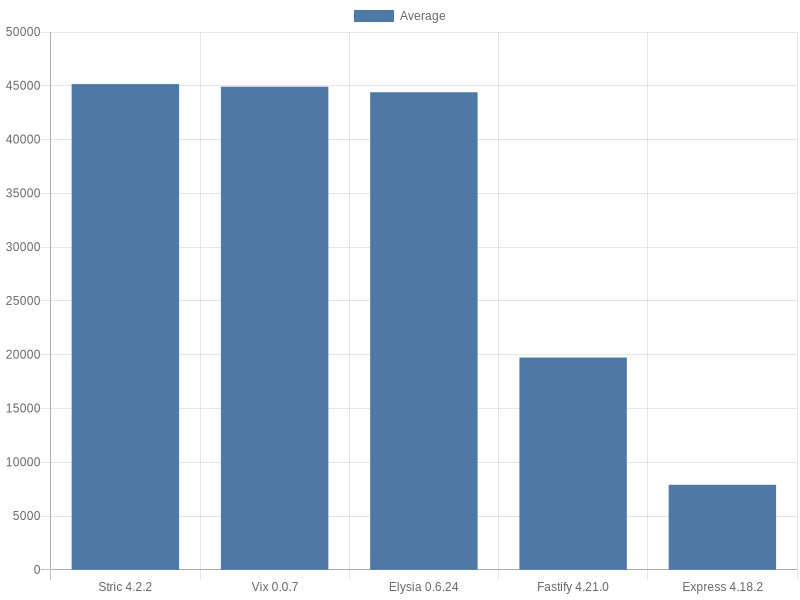
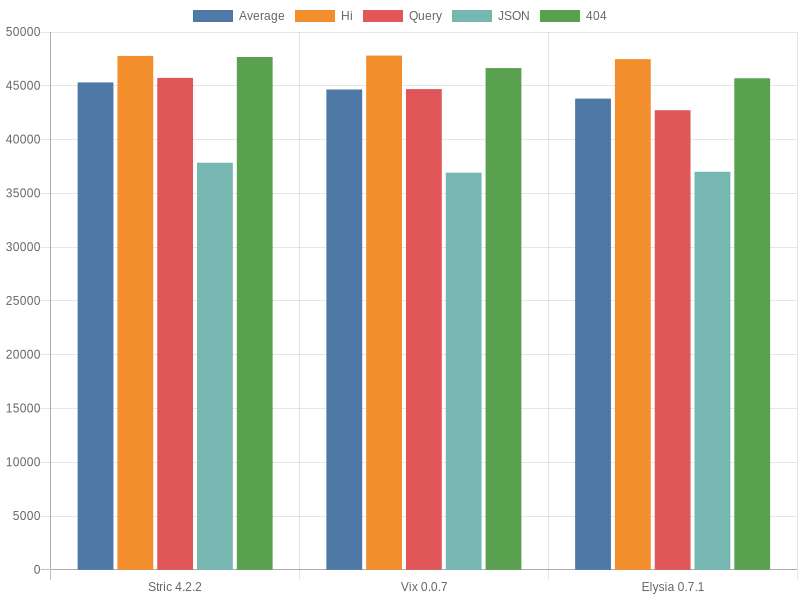
Update

diff --git a/micros/guard/index.ts b/micros/guard/index.ts
@@ -2,10 +2,23 @@ import { run, bench, group } from 'mitata';
 import { guard } from '@stricjs/utils';
 import { Type } from '@sinclair/typebox';
 import { TypeCompiler } from '@sinclair/typebox/compiler';
-import { TypeSystemPolicy } from '@sinclair/typebox/system'
+import { TypeSystemPolicy } from '@sinclair/typebox/system';
 
-TypeSystemPolicy.AllowArrayObject = true
-TypeSystemPolicy.AllowNaN = true
+TypeSystemPolicy.AllowArrayObject = true;
+TypeSystemPolicy.AllowNaN = true;
+
+bench('noop', () => { });
+bench('noop', () => { });
+bench('noop', () => { });
+bench('noop', () => { });
+bench('noop', () => { });
+bench('noop', () => { });
+bench('noop', () => { });
+bench('noop', () => { });
+bench('noop', () => { });
+bench('noop', () => { });
+bench('noop', () => { });
+bench('noop', () => { });
 
 group('Nested', () => {
     const stric = guard.create({
@@ -30,24 +43,26 @@ group('Nested', () => {
                 weight: Type.Number()
             })
         })
-    }), compiled = TypeCompiler.Compile(typebox);
+    });
+    let compiled = TypeCompiler.Compile(typebox);
+    const check = compiled.Check.bind(compiled);
 
     // Test object
-    const o = { 
-        name: 'John', age: 50, 
+    const o = {
+        name: 'John', age: 50,
         hobby: {
             name: 'badminton',
             since: 15,
             more: {
                 avgScore: 90,
-                weight: 67
+                weight: '67'
             }
-        } 
+        }
     };
 
     // All tests here
     bench('Typebox compiled', () => {
-        compiled.Check(o);   
+        check(o);
     });
 
     bench('Stric guard', () => {

diff --git a/lib/utils/chart.ts b/lib/utils/chart.ts
@@ -13,10 +13,28 @@ export function render(output: string, result: typeof import('../../results/data
         type: 'bar',
         data: {
             labels: result.map(v => v.name),
-            datasets: [{
-                label: 'Average',
-                data: result.map(v => v.average)
-            }]
+            datasets: [
+                {
+                    label: 'Average',
+                    data: result.map(v => v.average)
+                },
+                {
+                    label: 'Hi',
+                    data: result.map(v => v.results[0])
+                },
+                {
+                    label: 'Query',
+                    data: result.map(v => v.results[2])
+                },
+                {
+                    label: 'JSON',
+                    data: result.map(v => v.results[4])
+                },
+                {
+                    label: '404',
+                    data: result.map(v => v.results[3])
+                }
+            ]
         }
     });
 

diff --git a/src/Stric/index.ts b/src/Stric/index.ts
@@ -1,14 +1,17 @@
 import { Router, macro } from '@stricjs/router';
 import { qs } from '@stricjs/utils';
 
-const toRes = Response.json, parse = qs.searchKey('name');
+const parse = qs.searchKey('name');
 
-const app = new Router()
+new Router({ base: 'http://localhost:3000' })
+    // Macros
     .get('/', macro('Hi'))
     .get('/api/hi', macro('Welcome'))
-    .post('/api/json', c => c.json().then(toRes))
-    .get('/id/:id', c => new Response(c.params.id + ' ' + parse(c)))
-    .use(404);
-
-app.base = 'http://localhost:3000';
-export default app;
+    // JSON macro
+    .post('/api/json', macro(
+        c => c.json().then(Response.json)
+    ))
+    .get('/id/:id', c => new Response(
+        c.params.id + ' ' + parse(c))
+    )
+    .use(404).listen();

diff --git a/README.md b/README.md
@@ -9,13 +9,7 @@ I recommend testing this by yourself as performance may varies on different mach
 All tool required to set up and run the benchmark.
 
 ### Bun
-Bun is required to run the Bun server, Bun frameworks and benchmark scripts. See [bun.sh](https://bun.sh).
-
-### Node
-Node is required to run the Node server. See [nodejs.dev](https://nodejs.dev).
-
-### Deno
-Deno is required to run the Deno server. See [deno.land](https://deno.land).
+Bun is required to run Bun frameworks and benchmark scripts. See [bun.sh](https://bun.sh).
 
 ### Bombardier
 Go is required to install the `bombardier` CLI. See [go.dev](https://go.dev).
@@ -53,10 +47,8 @@ See [configuration file](/config.ts) and the [type declarations](/lib/types.ts).
 ### Table 
 
 
-| Name | Average | GET `/` | GET `/api/hi` | GET `/id/82?name=lZK` | GET `/a/b` | POST `/api/json` |
+| Name | Average | GET `/` | GET `/api/hi` | GET `/id/72?name=0yD` | GET `/a/b` | POST `/api/json` |
 |  :---: | :---: | :---: | :---: | :---: | :---: | :---: |
-| [Stric 4.2.2](/results/main/Stric) | 45162.67 | 48266.48 | 47264.72 | 46231.74 | 47103.01 | 36947.41 |
-| [Vix 0.0.7](/results/main/Vix) | 44919.01 | 47522.12 | 46566.05 | 46163.88 | 46751.82 | 37591.18 |
-| [Elysia 0.6.24](/results/main/Elysia) | 44399.27 | 48551.60 | 47207.03 | 41960.58 | 46687.72 | 37589.41 |
-| [Fastify 4.21.0](/results/main/Fastify) | 19738.03 | 21202.43 | 21734.39 | 20092.79 | 19366.39 | 16294.15 |
-| [Express 4.18.2](/results/main/Express) | 7906.07 | 9132.33 | 8922.92 | 8370.37 | 7074.27 | 6030.47 |
+| [Stric 4.2.2](/results/main/Stric) | 45317.71 | 47772.25 | 47557.05 | 45735.83 | 47674.42 | 37849.00 |
+| [Vix 0.0.7](/results/main/Vix) | 44660.08 | 47802.95 | 47229.62 | 44694.05 | 46648.31 | 36925.45 |
+| [Elysia 0.7.1](/results/main/Elysia) | 43806.02 | 47475.29 | 46114.62 | 42732.38 | 45698.38 | 37009.42 |

diff --git a/results/index.md b/results/index.md
@@ -1,6 +1,6 @@
 Bun: 1.0.2
 
-Tested at: 23:26, September 18th, 2023
+Tested at: 15:49, September 21st, 2023
 
 ## OS Details
 - Cores: 8
@@ -13,7 +13,7 @@ Tested at: 23:26, September 18th, 2023
 Should return `Hi` as a response.
 ### GET `/api/hi`
 Should return `Welcome` as a response.
-### GET `/id/34?name=UGe`
+### GET `/id/86?name=NGQ`
 Should return the `id` parameter value and the query value, for example `1 a` when the request path is `/id/1?name=a`.
 ### GET `/a/b`
 Should return a response with `404` status code.
@@ -26,10 +26,8 @@ Return the request body with `Content-Type` set to `application/json`.
 - Results are measured in requests per second.
 
 ## Results
-| Name | Average | GET `/` | GET `/api/hi` | GET `/id/82?name=lZK` | GET `/a/b` | POST `/api/json` |
+| Name | Average | GET `/` | GET `/api/hi` | GET `/id/72?name=0yD` | GET `/a/b` | POST `/api/json` |
 |  :---: | :---: | :---: | :---: | :---: | :---: | :---: |
-| [Stric 4.2.2](/results/main/Stric) | 45162.67 | 48266.48 | 47264.72 | 46231.74 | 47103.01 | 36947.41 |
-| [Vix 0.0.7](/results/main/Vix) | 44919.01 | 47522.12 | 46566.05 | 46163.88 | 46751.82 | 37591.18 |
-| [Elysia 0.6.24](/results/main/Elysia) | 44399.27 | 48551.60 | 47207.03 | 41960.58 | 46687.72 | 37589.41 |
-| [Fastify 4.21.0](/results/main/Fastify) | 19738.03 | 21202.43 | 21734.39 | 20092.79 | 19366.39 | 16294.15 |
-| [Express 4.18.2](/results/main/Express) | 7906.07 | 9132.33 | 8922.92 | 8370.37 | 7074.27 | 6030.47 |
+| [Stric 4.2.2](/results/main/Stric) | 45317.71 | 47772.25 | 47557.05 | 45735.83 | 47674.42 | 37849.00 |
+| [Vix 0.0.7](/results/main/Vix) | 44660.08 | 47802.95 | 47229.62 | 44694.05 | 46648.31 | 36925.45 |
+| [Elysia 0.7.1](/results/main/Elysia) | 43806.02 | 47475.29 | 46114.62 | 42732.38 | 45698.38 | 37009.42 |

diff --git a/README.template.md b/README.template.md
@@ -9,13 +9,7 @@ I recommend testing this by yourself as performance may varies on different mach
 All tool required to set up and run the benchmark.
 
 ### Bun
-Bun is required to run the Bun server, Bun frameworks and benchmark scripts. See [bun.sh](https://bun.sh).
-
-### Node
-Node is required to run the Node server. See [nodejs.dev](https://nodejs.dev).
-
-### Deno
-Deno is required to run the Deno server. See [deno.land](https://deno.land).
+Bun is required to run Bun frameworks and benchmark scripts. See [bun.sh](https://bun.sh).
 
 ### Bombardier
 Go is required to install the `bombardier` CLI. See [go.dev](https://go.dev).
